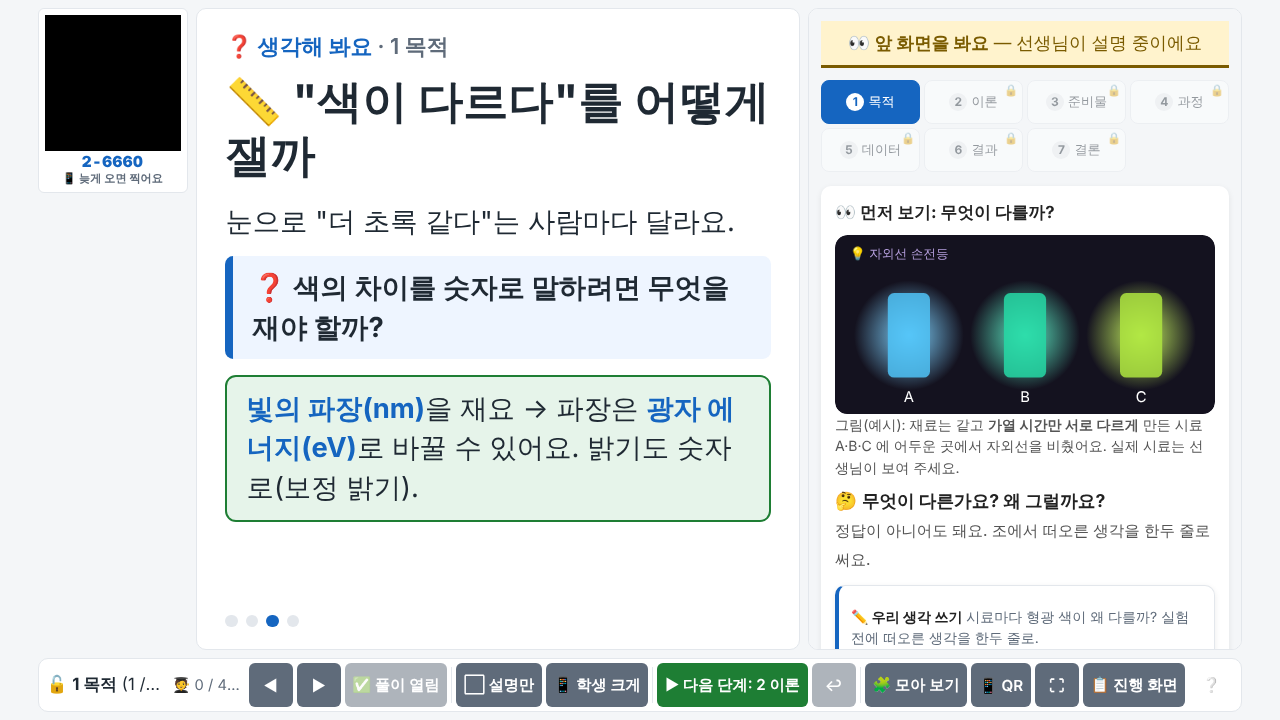
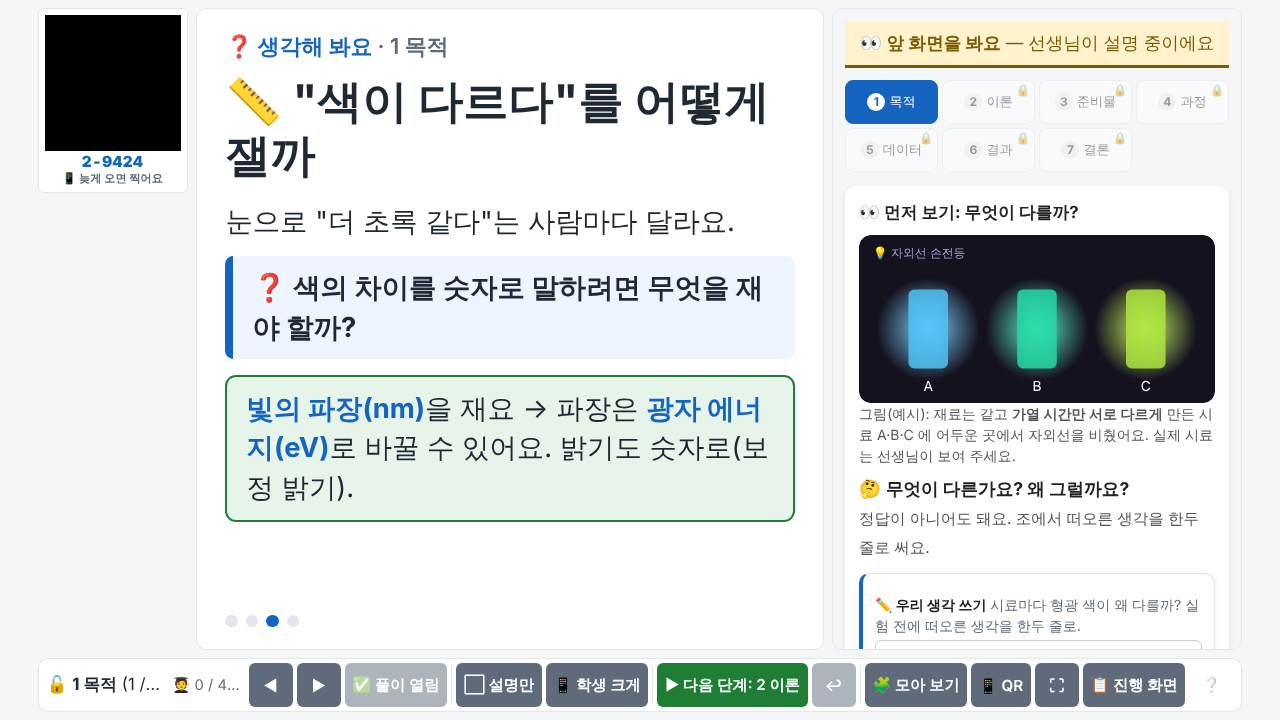
7단계 학생 칸 26%(작은 노트북 34%)·세로 틀은 폰 폭 배치, QR 칸 13vh — 설명 장 글자 줄임 없게
Claude-Session: https://claude.ai/code/session_013iu8SMz53o82SYe7xxBGoe

diff --git a/projects/class-teacher.html b/projects/class-teacher.html
@@ -144,7 +144,7 @@
             </div>
             <!-- 프로젝터 = 정보의 중심 (2026-11-23): 설명 장(응답 장은 팀 답이 모임) · 🧩 모아 보기 · 🏆 결과판 · 학생 화면.
                  나란히 보기 (2026-11-23 "학생 화면은 수업화면 옆에 같이 보이도록"): 왼쪽 설명 장(또는 🧩·🏆) | 오른쪽 학생 화면 (지금 띄운 장을 따라감).
-                 학생 화면 칸은 실험에 맞는 비율 (로켓 = 폰 9 : 19.5, 7단계 = 폭 36 % 세로 칸), 남는 폭은 설명 장으로. 왼쪽 위에는 늘 작은 QR·수업 코드 ("큐알코드는 왼쪽 위에 계속 배치") -->
+                 학생 화면 칸은 실험에 맞는 비율 (로켓 = 폰 9 : 19.5, 7단계 = 폭 26 % 세로 칸), 남는 폭은 설명 장으로. 왼쪽 위에는 늘 작은 QR·수업 코드 ("큐알코드는 왼쪽 위에 계속 배치") -->
             <div class="ct-pframe"><button type="button" id="pQr" class="ct-pqr" aria-label="학생 연결 QR 크게 보기" title="누르면 크게"><span id="pQrImg" class="ct-pqr-img"></span><b id="pQrCode"></b><small>📱 늦게 오면 찍어요</small></button><div id="pSlides" class="ls-deck" role="region" aria-label="수업 설명" aria-live="polite"></div><div id="pPanel" class="ct-ppanel" role="region" aria-live="polite" hidden></div><iframe id="presentFrame" title="학생 화면 (발표용)" src="about:blank"></iframe></div>
             <!-- 교사 조작은 이 띠 하나 (2026-11-23 선생님 "교사가 조작해야 할 버튼 위치가 최대한 한곳에 집중되도록"): 넘기기·단계 열기/되돌리기·풀이·나란히/크게·모아 보기·결과판·QR·전체 화면·진행 화면 -->
             <div class="ct-pbar" role="toolbar" aria-label="수업 조작">

diff --git a/js/class-teacher.js b/js/class-teacher.js
@@ -550,15 +550,15 @@
     applyLayout();
     /* 학생 화면 칸 비율 (2026-11-23 선생님 "이부분 비율 조절해서 최적화해"): 칸 높이에 맞춘 실제 기기 비율, 남는 폭은 설명 장으로
        · 행사형(로켓) = 폰 9 : 19.5 (틀 테두리까지), 안쪽은 틀을 채우게 키움 (js/lab-ui.js presentFit, iframe data-fit="phone")
-       · 7단계 = 칸 높이를 다 쓰는 세로 칸(폭의 36 %)에 노트북 화면을 좁은 배치로 — 16 : 10 노트북 틀은 위아래가 비고 글자가 너무 작아 쓰지 않음 */
-    var PHONE_AR = 9 / 19.5, STEP_W = 0.36;
+       · 7단계 = 칸 높이를 다 쓰는 세로 칸(폭의 26 %, 1600 폭 아래는 34 %)에 노트북 화면을 좁은 배치로 — 16 : 10 노트북 틀은 위아래가 비고 글자가 너무 작아 쓰지 않음 */
+    var PHONE_AR = 9 / 19.5, STEP_W = 0.26, STEP_W_SMALL = 0.34;
     function sizeFrame() {
         var pane = $('presentPane'), box = pane.querySelector('.ct-pframe'), f = $('presentFrame');
         if (!box || pane.hidden) return;
         var r = box.getBoundingClientRect(); if (!r.height) return;
         var phone = pane.classList.contains('phone'), fw;
         if (phone) fw = Math.round(r.height * PHONE_AR);
-        else fw = Math.round(r.width * STEP_W);
+        else fw = Math.round(r.width * (window.innerWidth < 1600 ? STEP_W_SMALL : STEP_W));   // 작은 노트북 화면은 학생 화면이 너무 좁지 않게 조금 더
         var v = fw + 'px';
         if (box.style.getPropertyValue('--fw') !== v) box.style.setProperty('--fw', v);
         var fit = phone ? 'phone' : '';

diff --git a/css/class-teacher.css b/css/class-teacher.css
@@ -351,8 +351,8 @@ body.ct-presenting .ct-present.phone .ct-pframe iframe { max-width: 100%; }
 body.ct-presenting .ct-present.phone .ct-pframe iframe { box-sizing: border-box; }
 /* ===== 2026-11-23 선생님 "이부분 비율 조절해서 최적화해", "큐알코드는 왼쪽 위에 계속 배치" =====
    · 왼쪽 위 작은 QR·수업 코드(--rail 칸, 설명 장·학생 화면을 가리지 않음, 누르면 크게)
-   · 학생 화면 칸 폭(--fw)은 js/class-teacher.js 가 계산: 로켓 = 칸 높이 × 폰 9 : 19.5, 7단계 = 폭의 36 % (남는 폭은 설명 장) */
-.ct-pframe { --rail: clamp(150px, 15vh, 380px); --fw: 35%; grid-template-columns: var(--rail) minmax(0, 1fr); }
+   · 학생 화면 칸 폭(--fw)은 js/class-teacher.js 가 계산: 로켓 = 칸 높이 × 폰 9 : 19.5, 7단계 = 폭의 26 % (작은 노트북 34 %) (남는 폭은 설명 장) */
+.ct-pframe { --rail: clamp(150px, 13vh, 340px); --fw: 35%; grid-template-columns: var(--rail) minmax(0, 1fr); }
 .ct-pframe > * { grid-column: 2; }
 .ct-present.lay-side.ls-on .ct-pframe, .ct-present.lay-side.pp-panel .ct-pframe { grid-template-columns: var(--rail) minmax(0, 1fr) var(--fw); }
 .ct-present.lay-side.ls-on .ct-pframe iframe, .ct-present.lay-side.pp-panel .ct-pframe iframe { grid-column: 3; }

diff --git a/js/lab-ui.js b/js/lab-ui.js
@@ -395,7 +395,7 @@
         // 교사 발표 보기의 틀(iframe data-fit): phone = 폰 9 : 19.5 틀을 340px 폭 폰 화면으로 채움
         var fit = ''; try { fit = (window.frameElement && window.frameElement.getAttribute('data-fit')) || ''; } catch (e) { fit = ''; }
         var ev = document.body.classList.contains('ev-body');
-        var z = ev ? (fit === 'phone' ? W / 340 : Math.min(W / 400, H / 820)) : Math.min(H * 0.002, W / (H > W * 1.2 ? 560 : 760));   // 세로로 긴 틀은 좁은 화면 배치로 글자를 더 크게
+        var z = ev ? (fit === 'phone' ? W / 340 : Math.min(W / 400, H / 820)) : Math.min(H * 0.002, W / (H > W * 1.2 ? 440 : 760));   // 세로로 긴 틀은 좁은 화면 배치로 글자를 더 크게
         if (big) z = Math.min(z * 1.25, document.body.classList.contains('ev-body') ? z * 1.25 : W / 600);
         z = Math.max(1, Math.min(6, z));
         // 폰 틀(로켓): 340px 폭 화면을 먼저 맞춘 뒤, 아래가 많이 비면 글자를 더 키워 틀을 채움 (화면 폭 280px 까지, 넘치면 줄임)

diff --git a/AGENTS.md b/AGENTS.md
@@ -22,7 +22,7 @@
 | `projects/pendulum-report.html` | 스마트폰 진자 2·3단계: 노트북 분석 화면(7단계 탭, 조 코드 → QR → 저장소(Firestore, `js/lab-store.js`)에서 새 측정을 실시간으로 받아 표 자동 추가, CSV 불러오기·직접 넣기, T²–L 최소제곱으로 g·d·오차율). 조 코드·원본 줄이기·요청은 `js/pendulum-cloud.js`(시험 `tests/pendulum-cloud.test.cjs`, 가짜 저장소 `tests/fake-lab-store.cjs`), 설정 `js/pendulum-config.js`(`pollSeconds`·`devCollect`만). 예전 선생님 시트 설정 화면 `projects/pendulum-setup.html` 은 '이제 필요 없어요' 안내만, 예전 링크 `?s=스크립트ID` 는 '새 QR 을 받으세요' 안내 (2026-11-20 Apps Script 정리) |
 | `projects/lesson-editor.html` | **📖 수업 자료 편집 (교사, 2026-11-23)**: 교사 화면 ⚙ 설정 '📖 수업 자료 편집' → 실험 고르기(단계를 여는 실험, ✏ 고친 자료 있음) → 단계 작은 탭 → 장 목록(↑↓ 순서·👁 숨기기·➕ 새 장) → 장 고치기(제목·본문·물음·풀이·선생님용·변인 표, 굵게·목록, 붙여 넣기·끌어 놓기는 글자만) → 미리보기(발표 보기와 같은 그리기, 1280×720·4K iframe). 💾 = 선생님 구글 계정 Firestore `lessonEdits/{uid}/exps/{exp}`(본인만, 교사 자료라 `expireAt` 없음·정리 작업 대상 아님, `LabStore` `lessonEditGet·Save·Reset·List`), ↩ 기본 자료로 되돌리기 = 지우기. 발표 보기는 `LessonSlides.load` 가 내 고친 자료를 덮어 그림(`resolveEdit`·`applyEdit`·`toEdit`, 기본 장 key 그대로·새 장 `my-…`, 고친 목록에 없는 기본 장은 단계 끝에, 숨긴 key 장은 `_hidden` 으로 '모든 풀이 열기'만), 받은 글은 `LessonSlides.sanitize`(허용 태그·class 만). 화면 `js/lesson-editor.js`·`css/lesson-editor.css`, 시험 `tests/lesson-editor.test.cjs`·`tests/lesson-editor-ui.test.cjs`·`tests/firestore-rules-lesson-edit.test.cjs`. 그림 바꾸기·응답 물음 만들기는 다음 PR |
 | `js/report-ai.js`, `css/report-ai.css`, `js/class-teacher-ai.js` | **보고서 쓰기 · AI 피드백 (2026-11-19, 7단계 보고서 실험 전부)**: 실험 페이지 7. 결론 단계의 `<div id="report-ai">` + `ReportAI.init({ exp, mount, sections, getContext 또는 contextFrom })`(플랑크·이상기체·말루스·전자기 유도·자유낙하·진자 분석·퀀텀닷·선생님이 만든 실험(7단계·가설연역 방식만, 한 화면 방식은 없음)에 붙임). 항목(이론·방법·데이터 분석·결론 및 검토, 실험마다 고름)마다 글(이 기기+선생님께 자동 저장)·프롬프트 칸(비면 단추 꺼짐)·참고 자료 체크(내 초안·코드로 계산한 결과)·답·검증 메모, 외부 AI 기록, 최종 제출(뒤로는 못 고침, 교사가 다시 열기), 인쇄(PDF). 수업(`?c=`)이 아니거나 교사 화면이 꺼져 있으면 안내. **선생님 개인 API 키(Gemini·Claude·GPT)는 교사 브라우저에만**: 교사 화면 ③ 🤖 보고서 AI(`js/class-teacher-ai.js`)가 켜져 있는 동안 학생 질문(Firestore `labClasses/{수업}/aiAsk`)을 받아 브라우저에서 바로 AI 를 불러 답을 씀(Claude 는 `anthropic-dangerous-direct-browser-access`), 조마다 한도(수업 만들 때 `aiLimit`, 기본 20), 켜짐 신호 `aiDesk/status`, 보고서 `reports/{조코드~uid}`, 조별 보기·CSV(`LabStore.aiCsv`·`reportCsv`)·JSON. 항목별 시스템 프롬프트(대신 써 주지 않기·질문 2~3개·계산하지 않기·교과서 범위)는 `js/report-ai.js` 한 곳. 규칙은 `firestore.rules` 보고서 AI 부분(시험 `tests/report-ai-rules.test.cjs`, 에뮬레이터), 시험 `tests/report-ai.test.cjs`·`tests/report-ai-ui.test.cjs`(가짜 AI 서버 3곳). 안내 `docs/class-teacher-guide.md`. **변인 카드**(`ReportAI.init({ vars })` → 7단계 4. 과정 맨 위 `[data-rai-slot="design"]`·가설연역 ③, 바꿀 것 하나 → 나머지 🔒·재는 것·예상 방향 + 까닭): 바꿀 것과 예상 방향을 고르기 전에는 카드 뒤 단계로 못 감(**골라야 다음**, 노트북·태블릿·수업 없이 연 화면, 📱 폰·🎬 발표용은 막지 않음), 6 결과·7 결론 `[data-rai-compare="design"]` '🔮 내 예상 ↔ 📊 결과'(페이지 계산 `vars.result` 가 없으면 학생이 결과 방향을 고름 → `[결과]`), 붙인 곳 양자점·플랑크·이상기체·전자기 유도·자유낙하·진자 분석, 시험 `tests/vars-gate-ui.test.cjs`(도우미 `tests/vars-pick.cjs`) |
-| `projects/class-teacher.html` | **수업 연결(교사 구글 로그인, 학생 로그인 없이, 2026-11-18 Firestore)**: 2026-11-20 부터 **첫 화면 = 📚 내 수업 목록**(카드: 실험·반·코드·날짜·진행 중/✅ 마침·단계, 마친 수업은 접기, ➕ 새 수업) → 카드 = 큰 QR → 다음 = **🎬 발표 보기(그 단계 설명 장부터, 2026-11-23 '발표 보기를 첫 화면으로', 단계 열기가 없는 실험은 진행 화면)** · 발표 보기 띠 '📋 진행 화면' = 진행 화면(오른쪽 위 고정 QR, 주소 `#class=…&view=run`, 진행 화면의 '▶ 다음 단계 열기' 는 그 단계 설명 장이 있으면 발표 보기 첫 장으로 넘어감(되돌리기·모두 열기는 그대로), 발표 틀 주소는 `location.replace` 라 뒤로 가기 기록에 안 쌓임, 시험 `tests/class-present-first-ui.test.cjs`, **나란히 보기·교사 조작은 한곳**(2026-11-23): 설명 장(또는 🧩·🏆) 왼쪽 | 학생 화면 오른쪽(칸 폭은 실험에 맞춤: 로켓 = 칸 높이 × 폰 9 : 19.5 + 안쪽을 틀에 채워 키움 `iframe data-fit="phone"`·`js/lab-ui.js` presentFit, 7단계 = 폭 36 % 세로 칸), 왼쪽 위에 늘 작은 QR·수업 코드(`#pQr`, 누르면 크게), 장을 넘기면 학생 화면이 따라감(교사 화면이 iframe 에 `lab-present-lesson` 이벤트 → `js/class-share.js` 발표용이 👀 띠·답 가리기, 로켓은 폰이 보는 대기·답 칸·측정, 7단계는 그 단계 탭), '⬜ 설명만 / ⇔ 나란히'(이 브라우저 기억 `ct-present-layout`)·'📱 학생 크게', 수업 중 단추는 모두 발표 화면 맨 아래 띠 하나(◀ ▶·🔓 풀이·▶ 다음 단계·↩ 되돌리기·🧩·🏆·📱 QR·⛶·📋, 오른쪽 위 QR 은 진행 화면에만), 띠 한 줄(4K 배율 100·150·200 %·1280×720, 단추 44px), 시험 `tests/class-present-side-ui.test.cjs`, **프로젝터 = 정보의 중심**: 응답 장(`mode: 'phone'` + key)에 '📱 지금 폰으로 답해요' 팀 답 모음(`js/class-teacher-answers.js`, 고르기는 칸별 수·막대·풀이 뒤 ✅, 글은 팀 이름과 함께, 못 낸 팀은 수만, 교사만 읽는 classExport 를 응답 장을 띄운 동안만 몇 초마다, 지금은 로켓만), 교사 조작 띠는 발표 화면 맨 아래 얇게(◀ ▶ · 📖 설명/📱 학생 · 🧩 모아 보기 · 🏆 결과판(팀 수업) · ▶ 다음 단계 · ⛶ · 📋 진행 화면, 팀 수·⏳·🔌 작은 숫자, 이름은 펼친 안에만), 시험 `tests/class-present-answers-ui.test.cjs`, ✅ 수업 마치기 = 수업 문서 `done`·`doneAt`, 시험 `tests/class-list-ui.test.cjs`, **🎬 발표 보기** `#class=…&view=present` = 그 수업 실험 페이지를 `?present=1` iframe 으로(학생으로 참여 안 함: `LabUI.present`·`ClassShare` 가 자리·하트비트·조 공유·폰 QR·저장 없이 수업 문서만 읽어 잠금, `html.lab-present` 가 띠·측정 숨김, 로켓은 폰 틀), →·PageDown·Space 다음 작은 탭 → 단계 끝이면 '열까요?' 확인, 전체 화면, 시험 `tests/class-present-ui.test.cjs`; **📖 수업 설명 화면**(2026-11-21) = 단계마다 설명 장(왜·개념·변인 통제·방법·안전, 물음 ❓ 다음 키에 풀이, 선생님 말은 '🔧 선생님용' 접기)부터 → 학생 화면, 공통 부품 `js/lesson-slides.js`·`css/lesson-slides.css`, 실험별 내용 `js/lesson-content/<exp>.js`(없으면 학생 화면만), 장을 넘길 때마다 수업 문서 `lesson`(on·stage·i·key·reveal)·`lessonOpen`(풀이를 연 key, 주인만 씀) → 학생 화면 `js/class-share.js` 가 '👀 앞 화면을 봐요' 띠·`[data-lesson-answer=key]` 가리기(설명 화면을 쓴 수업만), 진행 화면 '🔓 모든 풀이 열기', 발표 띠에 팀·조 상태(⏳ 기다림·하는 중·🔧 값 안 바꾼 팀·📤 보낸 조), 시험 `tests/lesson-slides-ui.test.cjs`·`tests/lesson-content.test.cjs`·`tests/lesson-look-ui.test.cjs`·`tests/firestore-rules-lesson.test.cjs`)(학생에게 연 단계와 '▶ 다음 단계 열기'·'◀ 하나 되돌리기'·'모두 열기'·QR·결과판), 수업 만들기·내 수업·내려받기·보고서 AI·계정(이메일)은 '⚙ 설정' 안. **단계 열기**: 수업 문서 `stage`(1~99, 새 수업 1, 없으면 예전 수업 = 모두 열림, 주인만 고침), 단계 목록은 `ClassCloud.gateSteps`(7단계 실험·필름통 로켓), 학생 쪽은 `js/class-share.js` 가 수업 문서를 실시간으로 듣고 `nav.steps`·`nav.tabs` 의 열리지 않은 단계를 🔒(누르면 안내), 새로 열리면 그 단계로 이동(📱 폰 측정 화면·수업 없이 연 화면은 잠그지 않음, 다른 모양은 `onStage`), 시험 `tests/class-stage-ui.test.cjs`·`tests/firestore-rules-stage.test.cjs`. 예전 설명: 맨 위 구글 로그인 → ① 수업 만들기(반·학생 수·조별 인원 → 조 고르게 나누기 → 수업 코드 `반-4자리`·조 코드 `반-조-같은 4자리`·QR `실험페이지?c=수업코드&s=수업 공간`) · 내 수업 목록(어느 컴퓨터에서나, 🗑 지우기) ② 진행 보기(실시간, 조별 카드·학생 자세히·5분 쉬면 💤)·📥 자료 내려받기(CSV·JSON, 전체/조별)·지워지는 날 안내. `js/class-teacher.js` 화면, `js/class-cloud.js` 조 나누기·링크·요약·요청(시험 `tests/class-cloud.test.cjs`), 저장 `js/lab-store.js`. 학생 쪽은 실험 페이지의 `?c=` → '🏫 수업 참여' 띠, 메인 화면 '교사로 시작/학생으로 시작'(수업 코드로 찾기는 2일, 규칙이 막음, 교사 화면 🔓 코드 다시 열기). 안내 `docs/class-teacher-guide.md`. **🧩 모아 보기**(2026-11-22, `js/class-teacher-gather.js`): 진행 화면 '🖥 모아 보기 (프로젝터)' → 조별 🔮 예상 방향·까닭(같은 예상끼리 묶음, 결과 방향을 고른 조는 ✅/🤔)·💭 우리 생각·✍ 결론 주장(보고서 항목)·📊 요약 숫자 하나의 조별 점 그래프, 프로젝터에는 못 한 조 번호 없이 수만(어느 조인지는 '🔧 선생님용' 접기), 요약 숫자는 진행 화면이 받은 classStatus 를 `ct-watch` 로 다시 쓰고 보고서(reportList)는 열 때·🔄 에만 읽음, 가족 행사(팀) 수업은 🏆 결과판이 맡아 숨김, 시험 `tests/class-teacher-gather.test.cjs`. 플랑크 수업이면 진행 화면 결과판 아래 **🔬 LED 플랑크 상수 결과**(`js/class-teacher-planck.js`: 조별 표·V₀ 를 측정값으로 다시 계산·V₀–f 그래프·조 h(전류/빛 기준)·CSV, 예전 `apps-script/planck-led` 웹앱 선생님 화면을 옮김, 화면이 보내는 `ct-watch` 이벤트로 붙음, 시험 `tests/class-teacher-planck.test.cjs`) |
+| `projects/class-teacher.html` | **수업 연결(교사 구글 로그인, 학생 로그인 없이, 2026-11-18 Firestore)**: 2026-11-20 부터 **첫 화면 = 📚 내 수업 목록**(카드: 실험·반·코드·날짜·진행 중/✅ 마침·단계, 마친 수업은 접기, ➕ 새 수업) → 카드 = 큰 QR → 다음 = **🎬 발표 보기(그 단계 설명 장부터, 2026-11-23 '발표 보기를 첫 화면으로', 단계 열기가 없는 실험은 진행 화면)** · 발표 보기 띠 '📋 진행 화면' = 진행 화면(오른쪽 위 고정 QR, 주소 `#class=…&view=run`, 진행 화면의 '▶ 다음 단계 열기' 는 그 단계 설명 장이 있으면 발표 보기 첫 장으로 넘어감(되돌리기·모두 열기는 그대로), 발표 틀 주소는 `location.replace` 라 뒤로 가기 기록에 안 쌓임, 시험 `tests/class-present-first-ui.test.cjs`, **나란히 보기·교사 조작은 한곳**(2026-11-23): 설명 장(또는 🧩·🏆) 왼쪽 | 학생 화면 오른쪽(칸 폭은 실험에 맞춤: 로켓 = 칸 높이 × 폰 9 : 19.5 + 안쪽을 틀에 채워 키움 `iframe data-fit="phone"`·`js/lab-ui.js` presentFit, 7단계 = 폭 26 % 세로 칸(1600 폭 아래 34 %)), 왼쪽 위에 늘 작은 QR·수업 코드(`#pQr`, 누르면 크게), 장을 넘기면 학생 화면이 따라감(교사 화면이 iframe 에 `lab-present-lesson` 이벤트 → `js/class-share.js` 발표용이 👀 띠·답 가리기, 로켓은 폰이 보는 대기·답 칸·측정, 7단계는 그 단계 탭), '⬜ 설명만 / ⇔ 나란히'(이 브라우저 기억 `ct-present-layout`)·'📱 학생 크게', 수업 중 단추는 모두 발표 화면 맨 아래 띠 하나(◀ ▶·🔓 풀이·▶ 다음 단계·↩ 되돌리기·🧩·🏆·📱 QR·⛶·📋, 오른쪽 위 QR 은 진행 화면에만), 띠 한 줄(4K 배율 100·150·200 %·1280×720, 단추 44px), 시험 `tests/class-present-side-ui.test.cjs`, **프로젝터 = 정보의 중심**: 응답 장(`mode: 'phone'` + key)에 '📱 지금 폰으로 답해요' 팀 답 모음(`js/class-teacher-answers.js`, 고르기는 칸별 수·막대·풀이 뒤 ✅, 글은 팀 이름과 함께, 못 낸 팀은 수만, 교사만 읽는 classExport 를 응답 장을 띄운 동안만 몇 초마다, 지금은 로켓만), 교사 조작 띠는 발표 화면 맨 아래 얇게(◀ ▶ · 📖 설명/📱 학생 · 🧩 모아 보기 · 🏆 결과판(팀 수업) · ▶ 다음 단계 · ⛶ · 📋 진행 화면, 팀 수·⏳·🔌 작은 숫자, 이름은 펼친 안에만), 시험 `tests/class-present-answers-ui.test.cjs`, ✅ 수업 마치기 = 수업 문서 `done`·`doneAt`, 시험 `tests/class-list-ui.test.cjs`, **🎬 발표 보기** `#class=…&view=present` = 그 수업 실험 페이지를 `?present=1` iframe 으로(학생으로 참여 안 함: `LabUI.present`·`ClassShare` 가 자리·하트비트·조 공유·폰 QR·저장 없이 수업 문서만 읽어 잠금, `html.lab-present` 가 띠·측정 숨김, 로켓은 폰 틀), →·PageDown·Space 다음 작은 탭 → 단계 끝이면 '열까요?' 확인, 전체 화면, 시험 `tests/class-present-ui.test.cjs`; **📖 수업 설명 화면**(2026-11-21) = 단계마다 설명 장(왜·개념·변인 통제·방법·안전, 물음 ❓ 다음 키에 풀이, 선생님 말은 '🔧 선생님용' 접기)부터 → 학생 화면, 공통 부품 `js/lesson-slides.js`·`css/lesson-slides.css`, 실험별 내용 `js/lesson-content/<exp>.js`(없으면 학생 화면만), 장을 넘길 때마다 수업 문서 `lesson`(on·stage·i·key·reveal)·`lessonOpen`(풀이를 연 key, 주인만 씀) → 학생 화면 `js/class-share.js` 가 '👀 앞 화면을 봐요' 띠·`[data-lesson-answer=key]` 가리기(설명 화면을 쓴 수업만), 진행 화면 '🔓 모든 풀이 열기', 발표 띠에 팀·조 상태(⏳ 기다림·하는 중·🔧 값 안 바꾼 팀·📤 보낸 조), 시험 `tests/lesson-slides-ui.test.cjs`·`tests/lesson-content.test.cjs`·`tests/lesson-look-ui.test.cjs`·`tests/firestore-rules-lesson.test.cjs`)(학생에게 연 단계와 '▶ 다음 단계 열기'·'◀ 하나 되돌리기'·'모두 열기'·QR·결과판), 수업 만들기·내 수업·내려받기·보고서 AI·계정(이메일)은 '⚙ 설정' 안. **단계 열기**: 수업 문서 `stage`(1~99, 새 수업 1, 없으면 예전 수업 = 모두 열림, 주인만 고침), 단계 목록은 `ClassCloud.gateSteps`(7단계 실험·필름통 로켓), 학생 쪽은 `js/class-share.js` 가 수업 문서를 실시간으로 듣고 `nav.steps`·`nav.tabs` 의 열리지 않은 단계를 🔒(누르면 안내), 새로 열리면 그 단계로 이동(📱 폰 측정 화면·수업 없이 연 화면은 잠그지 않음, 다른 모양은 `onStage`), 시험 `tests/class-stage-ui.test.cjs`·`tests/firestore-rules-stage.test.cjs`. 예전 설명: 맨 위 구글 로그인 → ① 수업 만들기(반·학생 수·조별 인원 → 조 고르게 나누기 → 수업 코드 `반-4자리`·조 코드 `반-조-같은 4자리`·QR `실험페이지?c=수업코드&s=수업 공간`) · 내 수업 목록(어느 컴퓨터에서나, 🗑 지우기) ② 진행 보기(실시간, 조별 카드·학생 자세히·5분 쉬면 💤)·📥 자료 내려받기(CSV·JSON, 전체/조별)·지워지는 날 안내. `js/class-teacher.js` 화면, `js/class-cloud.js` 조 나누기·링크·요약·요청(시험 `tests/class-cloud.test.cjs`), 저장 `js/lab-store.js`. 학생 쪽은 실험 페이지의 `?c=` → '🏫 수업 참여' 띠, 메인 화면 '교사로 시작/학생으로 시작'(수업 코드로 찾기는 2일, 규칙이 막음, 교사 화면 🔓 코드 다시 열기). 안내 `docs/class-teacher-guide.md`. **🧩 모아 보기**(2026-11-22, `js/class-teacher-gather.js`): 진행 화면 '🖥 모아 보기 (프로젝터)' → 조별 🔮 예상 방향·까닭(같은 예상끼리 묶음, 결과 방향을 고른 조는 ✅/🤔)·💭 우리 생각·✍ 결론 주장(보고서 항목)·📊 요약 숫자 하나의 조별 점 그래프, 프로젝터에는 못 한 조 번호 없이 수만(어느 조인지는 '🔧 선생님용' 접기), 요약 숫자는 진행 화면이 받은 classStatus 를 `ct-watch` 로 다시 쓰고 보고서(reportList)는 열 때·🔄 에만 읽음, 가족 행사(팀) 수업은 🏆 결과판이 맡아 숨김, 시험 `tests/class-teacher-gather.test.cjs`. 플랑크 수업이면 진행 화면 결과판 아래 **🔬 LED 플랑크 상수 결과**(`js/class-teacher-planck.js`: 조별 표·V₀ 를 측정값으로 다시 계산·V₀–f 그래프·조 h(전류/빛 기준)·CSV, 예전 `apps-script/planck-led` 웹앱 선생님 화면을 옮김, 화면이 보내는 `ct-watch` 이벤트로 붙음, 시험 `tests/class-teacher-planck.test.cjs`) |
 | `js/lab-store.js` | **수업 연결·조 공유·폰→노트북 저장소 (2026-11-18, Apps Script 대신 Firestore)**: 예전 `apps-script/Code.gs` 요청(save·list·raw·createClass·joinInfo·heartbeat·classStatus·devSave)을 같은 모양으로 받아 Firestore 에 저장 → 실험 페이지는 그대로. 주소 대신 '공간' `lab:<id>`(c…24자 수업, p…24자 노트북↔폰 짝, 없으면 조 코드 공간 `g<조코드>`), 링크·QR 의 `?s=` 에 담김. 학생은 화면에 안 보이는 익명 로그인, 교사는 구글 로그인(수업 주인 uid). 같은 조 새 측정·교사 진행은 onSnapshot 실시간(몇 초마다 불러와도 읽기 비용 없음). 모든 문서 `expireAt` = +183일(TTL `firestore.indexes.json` + 매일 `tools/firestore-cleanup.cjs`). 교사 CSV(UTF-8 BOM) `LabStore.toCsv`. 규칙 `firestore.rules` 의 lab… 부분(에뮬레이터 시험 `tests/firestore-rules.test.cjs`), 화면 시험은 `tests/fake-lab-store.cjs`(같은 core 를 메모리 DB 로, 페이지에 `window.LAB_STORE_FAKE_URL`). 콘솔 할 일 `docs/DEPLOY.md` |
 | `js/class-share.js` | **수업 참여 · 조 공유 공통 부품** (모든 실험 페이지용, 저장은 `js/lab-store.js`(Firestore), `css/class-share.css`, 사용법 `docs/class-share.md`): `?c=` 면 '🏫 수업 참여' 띠(조·번호 → 조 코드), `shareMount` 면 '👥 조 공유' 칸(보내기·불러오기·자동·CSV 대체), 하트비트. 실험 페이지는 `ClassShare.init({ exp, getItems, onIncoming, getStep, getPoints })`. 실험 이름·페이지·`ready` 는 `js/class-cloud.js` 의 `EXPS`(`js/lab-store.js` 의 `GENERIC_EXPS` 와 같게). 시험 `tests/class-share.test.cjs`. 붙인 곳: 플랑크(조 공유+띠), 진자 노트북·폰(띠). **수업 없이 연 화면(`?c=` 없음)은 조 공유 칸·선생님께 보내기를 숨기고**(`<html class="cs-solo">`, 페이지는 `.cs-hide-solo`·`.cs-show-solo`, 개발 페이지는 `solo: false`) 📱 폰 짝 QR(`share.phoneCard`)만, 시험 `tests/class-share-solo-ui.test.cjs` |
 | `projects/pendulum-measure.html` | 스마트폰 진자 1단계: 측정 앱(명세서 `docs/pendulum-spec.md`). 폰 센서(DeviceMotionEvent) 가속도·회전 속도, 아이폰 권한·화면 켜짐 유지·3초 보정, 0 통과로 주기 T(가속도는 통과 두 번 = 한 주기), FFT 비교, 시뮬레이션, CSV. `js/pendulum-math.js` 계산(브라우저·Node 공용, 시험 `tests/pendulum-math.test.cjs`, 2단계용 T²–L 직선·CSV 읽기 포함), `js/pendulum-measure.js` 화면, `css/pendulum.css`. 측정 화면은 주소에 `?group=조코드` 가 있으면 '💻 노트북으로 보내기' |
@@ -391,4 +391,4 @@
 - 2026-11-23: 필름통 로켓 '📱 폰은 응답만' — PR ②(선생님 원칙 "학생용 화면은 응답을 수집하기 위함이지 정보를 제공하기 위함이 아니야", 로켓 먼저, 물음이 없을 때 폰은 '👀 앞 화면을 봐요'만) — 선생님이 🎬 발표 보기 설명 장을 띄운 동안 팀 폰은 응답 장의 답 칸·측정 장의 측정 화면·그 밖은 대기, 측정 중에는 그대로, 끊김·새로고침에도 지금 장으로, 수업 없이 연 화면·설명을 안 쓴 반은 예전처럼. `js/class-share.js` 에 `lessonNow()`(지금 장 key·reveal)·onLesson 에 key, `js/lesson-content/rocket.js` 에 측정 장 2개. 퀴즈 점수·예측·정리 문장 계산은 그대로. 화면 `docs/screens/rocket-phone/`. 규칙·저장소 변경 없음 — Claude Code
 - 2026-11-23: 🎬 발표 보기 '나란히 보기 · 교사 조작은 한곳'(선생님 "교사가 조작해야 할 버튼 위치가 최대한 한곳에 집중되도록 하고 학생 화면은 수업화면 옆에 같이 보이도록", 통합 관리 세션 전달) — 설명 장 65 : 학생 화면 35, 장을 넘기면 옆 학생 화면이 따라감(로켓은 폰이 보는 대기·답 칸·측정, 7단계는 그 단계·👀 띠·답 가리기, 같은 사이트 iframe 에 바로 알림 — 저장소·규칙 그대로), '⬜ 설명만 / ⇔ 나란히'·'📱 학생 크게', 수업 중 단추를 발표 화면 맨 아래 띠 하나로(🔓 풀이·↩ 되돌리기·📱 QR 추가, 오른쪽 위 QR 은 진행 화면만), 세로로 긴 발표용 틀은 글자를 더 크게(`js/lab-ui.js` presentFit), 측정 장의 빈 답 칸 고침. 화면 `docs/screens/present-side/` — Claude Code
 - 2026-11-23: 📖 수업 자료 편집 ①(선생님 "수업 자료는 내가 편집할 수 있게 편집모드도 만들어줘", 고른 것: 글 고치기·장 더하기·빼기·순서·내 계정에 저장·따로 편집 화면) **(규칙 바뀜)** — `projects/lesson-editor.html`(교사 화면 ⚙ 설정 링크 한 줄), 고친 자료는 교사 구글 계정 `lessonEdits/{uid}/exps/{exp}`(본인만 읽고 씀, expireAt 없음), 발표 보기는 `js/lesson-slides.js` `load` 갈고리가 내 고친 자료를 덮어 그림(기본 장 key 그대로, 받은 글은 허용 태그만), ↩ 기본 자료로 되돌리기. 그림 바꾸기(②)·응답 물음 만들기(③)는 '정할 것'을 통합 관리 세션에 넘김 — Claude Code
-- 2026-11-23: 발표 보기 학생 화면 칸 비율·왼쪽 위 QR(선생님 "이부분 비율 조절해서 최적화해", "큐알코드는 왼쪽 위에 계속 배치") — 로켓 폰 틀을 실제 폰 비율(9 : 19.5)로 칸 높이에 맞추고 남는 폭은 설명 장으로, 안쪽 화면은 아래가 비면 글자를 키워 틀을 채움(폰 화면 폭 340→280px 사이), 7단계는 폭 36 % 세로 칸(16 : 10 노트북 틀은 위아래가 비고 글자가 너무 작아 쓰지 않음), 발표 화면 왼쪽 위에 늘 작은 QR·수업 코드(가리지 않는 칸, 누르면 크게, 띠의 📱 QR 도 그대로). 화면 `docs/screens/present-ratio/` — Claude Code
+- 2026-11-23: 발표 보기 학생 화면 칸 비율·왼쪽 위 QR(선생님 "이부분 비율 조절해서 최적화해", "큐알코드는 왼쪽 위에 계속 배치") — 로켓 폰 틀을 실제 폰 비율(9 : 19.5)로 칸 높이에 맞추고 남는 폭은 설명 장으로, 안쪽 화면은 아래가 비면 글자를 키워 틀을 채움(폰 화면 폭 340→280px 사이), 7단계는 폭 26 % 세로 칸(작은 노트북 34 %)(16 : 10 노트북 틀은 위아래가 비고 글자가 너무 작아 쓰지 않음), 발표 화면 왼쪽 위에 늘 작은 QR·수업 코드(가리지 않는 칸, 누르면 크게, 띠의 📱 QR 도 그대로). 화면 `docs/screens/present-ratio/` — Claude Code
